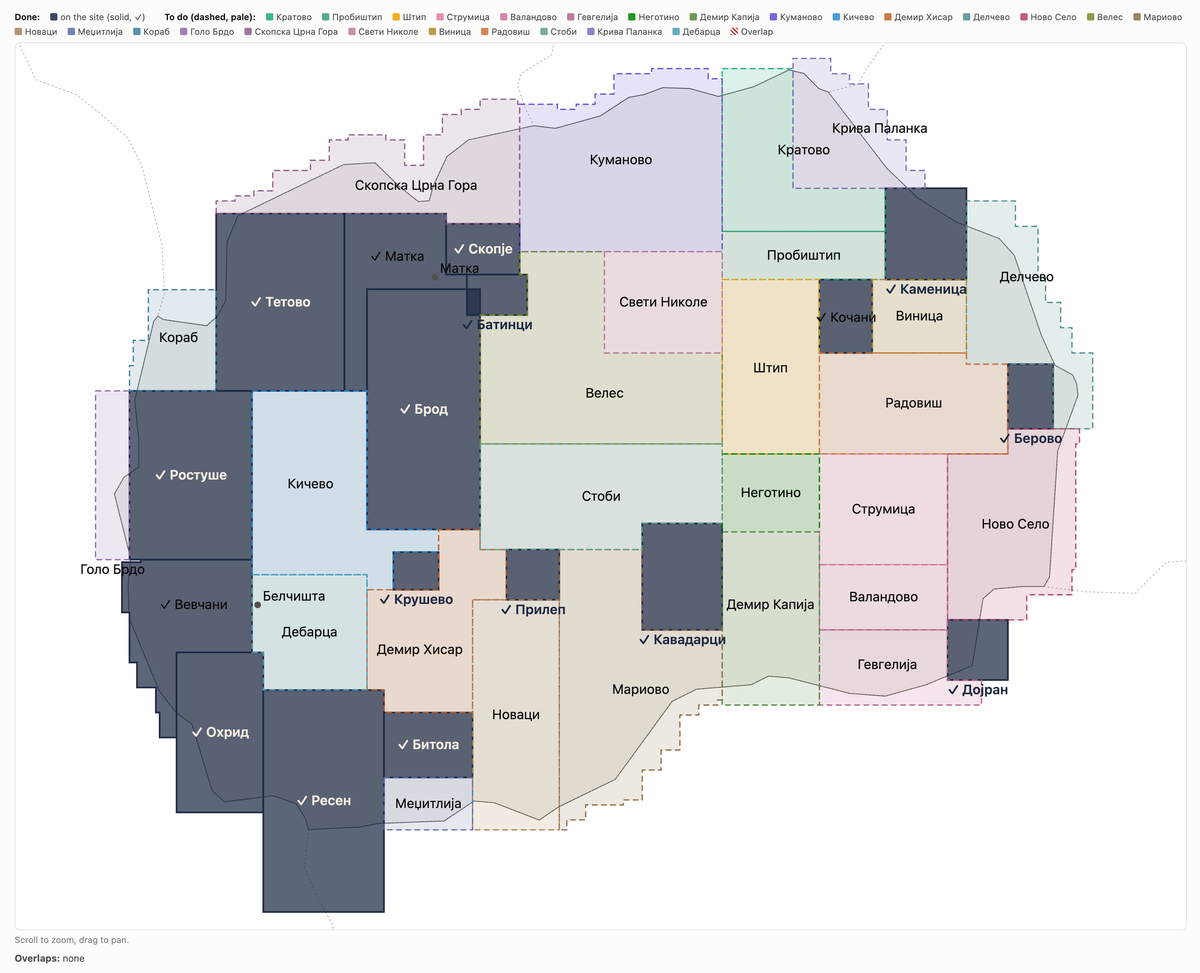
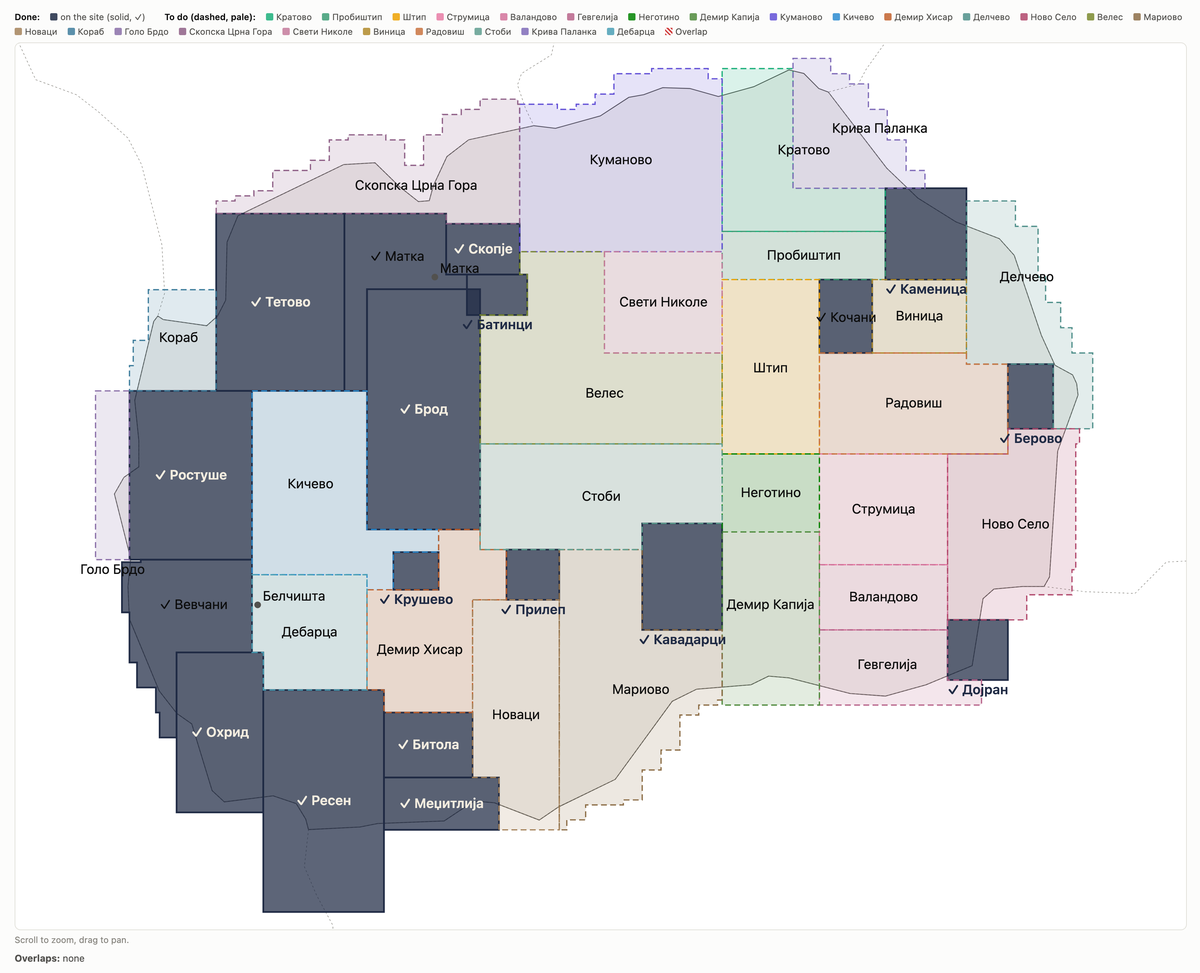
Docs: Меџитлија built (NOTES item 45, TOWNS_TODO 17 and the build order, Новаци's cut corner, CLAUDE.md, README, the plan map)

diff --git a/docs/TOWNS_TODO.md b/docs/TOWNS_TODO.md
@@ -4,7 +4,7 @@
 096 Охрид (with Струга), 098 Прилеп, 048 Крушево, 042 Ростуше (with Дебар and Маврово),
 033 Македонска Каменица (with Саса), 034 Дојран, 02 Батинци, 033 Берово (with Пехчево), 094 Тетово (with Гостивар),
 045 Македонски Брод, 047 Ресен, 02 Матка, 046 Вевчани. **Built, not yet released:** 0903 Кочани (branch `city-kocani`,
-2026-11-24). Details in the first table below.
+2026-11-24), 047 Меџитлија (branch `city-medzitlija`, 2026-11-24). Details in the first table below.
 
 ![Map extents: done (solid, ✓) and to do (dashed)](towns-map.png)
 
@@ -19,7 +19,7 @@ opens through the dev server. With `npm run dev` running:
 "/Applications/Google Chrome.app/Contents/MacOS/Google Chrome" --headless=new --disable-gpu --hide-scrollbars --force-device-scale-factor=2 --window-size=1640,1330 --virtual-time-budget=8000 --screenshot=docs/towns-map.png http://localhost:5173/scripts/towns-map.html
 ```
 
-**To do: 26 new maps** (Кочани built since), all edge to edge, no overlaps, the whole country covered. Largest first (km², official
+**To do: 25 new maps** (Кочани and Меџитлија built since), all edge to edge, no overlaps, the whole country covered. Largest first (km², official
 towns on it):
 
 | Map | ~km² | Towns | | Map | ~km² | Towns |
@@ -35,7 +35,7 @@ towns on it):
 | Радовиш | 900 | Радовиш | | Кораб* | 370 | — |
 | Штип | 820 | Штип | | Виница | 340 | Виница |
 | Демир Капија | 820 | Демир Капија | | Голо Брдо* | 280 | — |
-| Демир Хисар | 810 | Демир Хисар | | Меџитлија* | 230 | — |
+| Демир Хисар | 810 | Демир Хисар | | ~~Меџитлија*~~ built | 300 | — |
 | Делчево | 770 | Делчево | | ~~Кочани~~ built | 190 | Кочани |
 | Кратово | 750 | Кратово | | | | |
 
@@ -49,7 +49,7 @@ in `scripts/config.ts`, `cutOsm()` in `scripts/osm.ts`, used by `prepare.ts` and
 points and buildings with a corner inside are dropped, roads and rivers split at the edge, areas clipped; download
 tiles wholly inside a cut are skipped), so the corner shows bare relief, as outside a map. The cuts so far:
 Дебарца (Охрид's corner), Мариово (Кавадарци's), Вевчани (all of Охрид's
-map: Вевчани is an L around its north-west; built: Охрид's map and the stepped border edge cut), Делчево (Берово's and Радовиш's), Радовиш (Делчево's), Кратово (Крива Паланка's).
+map: Вевчани is an L around its north-west; built: Охрид's map and the stepped border edge cut), Делчево (Берово's and Радовиш's), Радовиш (Делчево's), Кратово (Крива Паланка's), Новаци (Меџитлија's south-east strip, 40.85–40.955 N, 21.40–21.47 E).
 Гевгелија (Дојран's). Велес, Матка (built: Скопје's and Брод's corners cut), Кичево, Демир Хисар, Стоби, Скопска Црна Гора, Крива Паланка, Делчево, Мариово, Вевчани, Кораб,
 Куманово and Ново Село are not rectangles with one corner cut but outlines that go around several maps
 (`shapes` in the plan page); in the app they would be their bounding rectangle with those maps cut out.
@@ -125,7 +125,7 @@ its own.
 | Битола ✓ | **097** | 047 | **097** | as now |
 | Демир Хисар | 097 | 047 | 047 | shares 047 |
 | Новаци | 097 | 047 | 047 | shares 047 |
-| Меџитлија | 097 | 047 | 047 | shares 047 |
+| Меџитлија ✓ | 097 | 047 | 047 | shares 047; built 2026-11-24 |
 | Прилеп ✓ | **098** | 048 | **098** | changed 2026-11-23 (was 048) |
 | Крушево ✓ | 098 | 048 | **048** | changed 2026-11-23 (was 098) |
 | Мариово | 098 | 048 | 048 | shares 048 |
@@ -158,7 +158,7 @@ bigger than its area suggests (dense villages: Тетово is 1100 km² and 16 
 | # | Map | ~km² | Towns | Section |
 |---|---|---|---|---|
 | 1 | ~~Кочани~~ built (2026-11-24, branch `city-kocani`) | 190 | Кочани | 23 |
-| 2 | Меџитлија* | 230 | — | 17 |
+| 2 | ~~Меџитлија*~~ built (2026-11-24, branch `city-medzitlija`) | 300 | — | 17 |
 | 3 | Голо Брдо* | 280 | — | 19 |
 | 4 | Виница | 340 | Виница | 32 |
 | 5 | Неготино | 370 | Неготино | 5 |
@@ -428,7 +428,13 @@ bigger than its area suggests (dense villages: Тетово is 1100 km² and 16 
   the OSM border with Greece.
 - **Landmarks:** Кајмакчалан's chapel at the summit, the Црна in its canyon, Мариово's stone villages.
 
-### 17. Меџитлија (name open)
+### 17. Меџитлија ✓ built (2026-11-24, branch `city-medzitlija`, not yet released; NOTES.md item 45)
+
+- **Built:** 40.85–40.955 N, 21.165–**21.47** E: the plan's e edge (21.40) left the village of Меџитлија (21.429), its
+  crossing (21.417) and Кременица (21.458) outside, so the box was widened east and that corner (40.85–40.955 N,
+  21.40–21.47 E) cut out of Новаци's planned box (`CUTS` in `src/zones.ts`). 4,966 buildings (999 OSM, 3,995 Overture),
+  the Greek half from Overpass. Modelled: the mosque of Меџитлија, both canopies of the border crossing, Велушки
+  манастир. Badge 047, working name kept (the owner may rename it).
 
 - **On it:** the strip of Пелагонија under Битола's map down to the Greek border: Меџитлија and its crossing,
   Кременица, Лажец; across the border the first villages of the Florina plain.
@@ -608,7 +614,8 @@ to Демир Хисар (11), the strip above Прилеп to Стоби (25), 
 - **On it:** the Pelagonian plain south-east of Битола: Новаци, Бач, Добромири, Паралово, the Црна's lower plain
   before the gorge; Нидже's north slopes at the Greek border.
 - **Name / code:** open (working name Новаци, phone code 047).
-- **Extent:** split off Мариово by the owner on 2026-11-23: w 21.40 (Битола's, Меџитлија's and Демир Хисар's e),
+- **Extent:** split off Мариово by the owner on 2026-11-23: w 21.40 (Битола's and Демир Хисар's e; south of 40.955 N
+  21.47, Меџитлија's e: that corner went to Меџитлија when it was built, 2026-11-24, `CUTS`),
   e 21.63 (Прилеп's e, Мариово's w), n 41.31 (Демир Хисар's and Прилеп's s), s ~40.85 (past the Greek border: check
   in OSM). About 970 km², 20 m cells.
 - **Landmarks:** the plain's fields (`farmMask`, as Битола), the Црна, the Нице front's western end.

diff --git a/CLAUDE.md b/CLAUDE.md
@@ -42,7 +42,7 @@ npm run country      # the whole country at 100 m → public/country.png/.json (
 | File | Role |
 |---|---|
 | `main.ts` | App shell: renderer, controls, loading (staged build + progress card), city switching (`loadCity` / `unloadWorld` / `switchCity`), views, time of day, flight/race wiring, popups, help, gamepad, adaptive quality |
-| `cities.ts` | The cities (Skopje, Kavadarci, Bitola, Ohrid, Rostuše, Prilep, Kruševo, Makedonska Kamenica, Dojran, Batinci, Berovo, Tetovo, Makedonski Brod, Resen, Матка, Вевчани, Кочани) and what differs per city: data files, camera views, district and landmark labels, race route, walking info spots, paragliders, weather / refill labels; `?city=` in the address |
+| `cities.ts` | The cities (Skopje, Kavadarci, Bitola, Ohrid, Rostuše, Prilep, Kruševo, Makedonska Kamenica, Dojran, Batinci, Berovo, Tetovo, Makedonski Brod, Resen, Матка, Вевчани, Кочани, Меџитлија) and what differs per city: data files, camera views, district and landmark labels, race route, walking info spots, paragliders, weather / refill labels; `?city=` in the address |
 | `city.ts` | `computeCitySteps` (generator; OSM+terrain → typed arrays per 1 km chunk) and `assembleCity` (meshes, materials, 3-level LOD, far-ground texture bake). Facade shader (windows, shutters, awnings, cornices, night glow), roof tiles, parapets, trees, parked cars, sheds; Kavadarci's vineyards and Bitola's fields, Кочани's rice paddies (`rice`) (`farmMask`, `VINE_GROUND`: farmland marked by one terrain colour, plots painted by the ground shader; `vineShare` per city: the share of plots that are vineyards) |
 | `terrain.ts` | Heightfield with exact mesh-matching interpolation; chunk/low-res meshes; triangle clipping for draping |
 | `post.ts` | `InkRenderer`: colour + normal/depth passes (one pass in the low tier or with smooth edges off: normals as a second attachment) → composite (ink lines, pairwise AO, cloud shadows, grade, haze) → temporal accumulation of jittered frames (supersampled AA) → output |
@@ -75,6 +75,7 @@ npm run country      # the whole country at 100 m → public/country.png/.json (
 | `matka.ts` | Матка (after photos): Св. Андреја, Св. Никола Шишевски (`byzChurch`), the Матка arch dam (`archDam`) |
 | `vevcani.ts` | Вевчани (after photos): Св. Никола (basilica, bell tower, annex), wooden footbridges below the springs |
 | `kocani.ts` | Кочани (after photos): the two Ottoman towers (Средновековна кула with its balcony and stair, the ruined Саат-кула with the clock's brick drum), Споменик на слободата (curved wall, drawn mosaics on a `CanvasTexture`, pylons) |
+| `medzitlija.ts` | Меџитлија (after photos and the aerial image): the village mosque (copper domes, porch, minaret), the border crossing's two canopies (Macedonian and Greek side, `modelRects`), Велушки манастир (church Св. Ѓорѓи with its bell tower, the konak with the gate and the court gallery) |
 | `dojran.ts` | Dojran (after photos): the clock tower, Св. Илија (a basilica), a мандра (reed fishing enclosure, hut on stilts, walkway to the beach) |
 | `bitola.ts` | Bitola (after photos): Саат-кула, Ајдар-кади џамија, Безистен, Св. Димитриј and its bell tower, Хераклеа's theatre and Great Basilica with its mosaic floors (painted canvases), built on their OSM outlines (`models` in `PREP`, `landmarks.models` in the data; the generic buildings left out); walking collision |
 | `river.ts` | Kavadarci, the Луда Мара (after photos): the stone-lined channel through the town between two promenades, cut exactly out of the terrain and draped ground (`cut`), its water, banks and promenades emitted into the draped ground; copings, railing, arched footbridges, road-bridge parapets, cascades, steps, benches, lamps, promenade trees; walking height and collision |
@@ -84,7 +85,7 @@ npm run country      # the whole country at 100 m → public/country.png/.json (
 | `i18n-towns.ts` | UI texts of the towns added after Bitola, spread into `STR` |
 | `i18n-towns2.ts` | UI texts of Tetovo, Makedonski Brod and Resen, spread into `STR` after `TOWNS` |
 | `i18n-towns3.ts` | UI texts of Матка and Вевчани, spread into `STR` after `TOWNS2` |
-| `i18n-towns4.ts` | UI texts of Кочани, spread into `STR` after `TOWNS3` |
+| `i18n-towns4.ts` | UI texts of Кочани and Меџитлија, spread into `STR` after `TOWNS3` |
 | `i18n-country.ts` | UI texts of the country view, spread into `STR` after `TOWNS4` |
 | `country.ts` | Country view (Macedonia, first in the city menu): all of Macedonia at 100 m from `public/country.png` (heights, land cover, border), its own scene / camera / controls drawn through the same ink renderer (`renderCountry()` in `main.ts`), zones as a canvas overlay, hover, picking by marching the height grid, badges that open a city; the data is loaded once and kept for the visit (`loadCountry`, meant for the F-15 too) |
 | `countryground.ts` | The country's 100 m terrain around a city map while the F-15 flies: one CPU-built grid following the plane (fine near, ~0.7 km cells at 45 km), sunk below the map inside it, the map's own exaggeration; the flight and the rockets use its height beyond the map's edges. While it shows, the ink's normal pass is not clipped to the map (`ink.setClipping`) |
@@ -123,7 +124,9 @@ controls, ink, city, flight); `setView('center'|'kale'|'park'|'vodno'|'overview'
   047 Ресен (`?city=resen`, v14.0.0: the whole of Преспа, its level set by hand), 02 Матка (`?city=matka`, v16.0.0: the
   first map that is not a rectangle, Скопје's and Брод's maps cut out of it), 046 Вевчани (`?city=vevcani`, v16.0.0: Охрид's map
   cut out of it), 0903 Кочани (`?city=kocani`, branch `city-kocani`, not yet released: Кочанско Поле's rice paddies, `rice` in
-  `CITIES` → `RICE_GROUND` in `city.ts`, compiled only into a city with rice).
+  `CITIES` → `RICE_GROUND` in `city.ts`, compiled only into a city with rice), 047 Меџитлија (`?city=medzitlija`, branch
+  `city-medzitlija`, not yet released: southern Пелагонија to the Greek border, widened east to 21.47 so that Меџитлија is on it;
+  Новаци's planned box cut there).
 - The F-15 (v26.0.0) flies from map to map: the next map downloaded ahead, switched at the edge while the jet flies on
   over the country's terrain (`src/hop.ts`, `src/countryground.ts`, `transit` in `main.ts`); every new finished map
   in `src/zones.ts` widens the flight. All of it: "F-15 and flying from map to map" in docs/NOTES.md.

diff --git a/README.md b/README.md
@@ -8,7 +8,7 @@ An illustrated, living 3D map of Skopje — from Gjorče Petrov to Gazi Baba and
 
 Илустрирана, жива 3Д мапа на Скопје, нацртана од отворените податоци на OpenStreetMap.
 
-More towns — **043 Кавадарци** (Kavadarci, the centre of the Tikveš wine region), **097 Битола** (Bitola, the city of consuls under Pelister) **096 Охрид** (Ohrid and Struga with the whole of Lake Ohrid) **098 Прилеп** (Prilep under Markovi Kuli) **048 Крушево** (Kruševo, the town of the Ilinden Uprising) **033 Македонска Каменица** (Makedonska Kamenica, the miners' town under Osogovo) **034 Дојран** (Dojran and the whole of Lake Dojran) **02 Батинци** (Batinci and its surroundings south of Skopje, to Marko's Monastery) **033 Берово** (Berovo, Pehčevo and the whole of Berovo Lake) **094 Тетово** (Tetovo, Gostivar and the Šar Mountains) **045 Македонски Брод** (Makedonski Brod, Lake Kozjak and the Treska) **047 Ресен** (Resen and the whole of Lake Prespa) **02 Матка** (the Matka Canyon and the land west of Skopje) **046 Вевчани** (Vevčani and Drimkol under Jablanica) and **0903 Кочани** (Kočani and the rice fields of its plain) — are chosen from the badge at the top left or opened directly with `?city=`: https://bbojan.github.io/091-skopje/?city=kavadarci, https://bbojan.github.io/091-skopje/?city=bitola, https://bbojan.github.io/091-skopje/?city=ohrid, https://bbojan.github.io/091-skopje/?city=rostuse, https://bbojan.github.io/091-skopje/?city=prilep, https://bbojan.github.io/091-skopje/?city=krusevo, https://bbojan.github.io/091-skopje/?city=kamenica, https://bbojan.github.io/091-skopje/?city=dojran, https://bbojan.github.io/091-skopje/?city=batinci, https://bbojan.github.io/091-skopje/?city=berovo, https://bbojan.github.io/091-skopje/?city=tetovo, https://bbojan.github.io/091-skopje/?city=brod, https://bbojan.github.io/091-skopje/?city=resen, https://bbojan.github.io/091-skopje/?city=matka, https://bbojan.github.io/091-skopje/?city=vevcani, https://bbojan.github.io/091-skopje/?city=kocani
+More towns — **043 Кавадарци** (Kavadarci, the centre of the Tikveš wine region), **097 Битола** (Bitola, the city of consuls under Pelister) **096 Охрид** (Ohrid and Struga with the whole of Lake Ohrid) **098 Прилеп** (Prilep under Markovi Kuli) **048 Крушево** (Kruševo, the town of the Ilinden Uprising) **033 Македонска Каменица** (Makedonska Kamenica, the miners' town under Osogovo) **034 Дојран** (Dojran and the whole of Lake Dojran) **02 Батинци** (Batinci and its surroundings south of Skopje, to Marko's Monastery) **033 Берово** (Berovo, Pehčevo and the whole of Berovo Lake) **094 Тетово** (Tetovo, Gostivar and the Šar Mountains) **045 Македонски Брод** (Makedonski Brod, Lake Kozjak and the Treska) **047 Ресен** (Resen and the whole of Lake Prespa) **02 Матка** (the Matka Canyon and the land west of Skopje) **046 Вевчани** (Vevčani and Drimkol under Jablanica) **0903 Кочани** (Kočani and the rice fields of its plain) and **047 Меџитлија** (southern Pelagonia at the Greek border) — are chosen from the badge at the top left or opened directly with `?city=`: https://bbojan.github.io/091-skopje/?city=kavadarci, https://bbojan.github.io/091-skopje/?city=bitola, https://bbojan.github.io/091-skopje/?city=ohrid, https://bbojan.github.io/091-skopje/?city=rostuse, https://bbojan.github.io/091-skopje/?city=prilep, https://bbojan.github.io/091-skopje/?city=krusevo, https://bbojan.github.io/091-skopje/?city=kamenica, https://bbojan.github.io/091-skopje/?city=dojran, https://bbojan.github.io/091-skopje/?city=batinci, https://bbojan.github.io/091-skopje/?city=berovo, https://bbojan.github.io/091-skopje/?city=tetovo, https://bbojan.github.io/091-skopje/?city=brod, https://bbojan.github.io/091-skopje/?city=resen, https://bbojan.github.io/091-skopje/?city=matka, https://bbojan.github.io/091-skopje/?city=vevcani, https://bbojan.github.io/091-skopje/?city=kocani, https://bbojan.github.io/091-skopje/?city=medzitlija
 
 ## Features
 
@@ -100,6 +100,11 @@ More towns — **043 Кавадарци** (Kavadarci, the centre of the Tikveš 
 - Hand-built after photos: the two Ottoman towers (the medieval tower and the clock tower), the Monument to Freedom on Lokubija with its mosaics
 - Its own places, labels, race route (12 rings), walking info cards; firefighting refills from the Bregalnica; no ЈСП buses
 
+**Medžitlija** (`?city=medzitlija`)
+- Southern Pelagonia under Bitola's map down to the Greek border: Medžitlija and the border crossing, Kremenica and its railway station, the villages under Baba and the first villages of the Florina plain, on real terrain
+- Hand-built after photos and the aerial image: the mosque of Medžitlija, the canopies of the border crossing (both sides), the Velušina monastery (church, bell tower, konak)
+- Its own places, labels, race route (13 rings), walking info cards; firefighting refills from the fish ponds by Žabeni; no ЈСП buses
+
 **Time, weather and seasons**
 - Day, sunset and night (lit windows, street lamps, headlights), drifting clouds, birds, paragliders over Vodno, flowing river
 - Weather: clear, rain (wet streets, puddles, umbrellas), snow, or snow only on Vodno
@@ -166,6 +171,7 @@ npm run download -- resen && npm run overture -- resen && npm run terrain -- res
 npm run download -- matka && npm run overture -- matka && npm run terrain -- matka && npm run data -- matka
 npm run download -- vevcani && npm run overture -- vevcani && npm run terrain -- vevcani && npm run data -- vevcani
 npm run download -- kocani && npm run terrain -- kocani && npm run data -- kocani   # Overture adds nothing here
+npm run download -- medzitlija && npm run overture -- medzitlija && npm run terrain -- medzitlija && npm run data -- medzitlija
                    # when Overpass is down: scripts/pbf2overpass.py writes data/<city>_raw.json from Geofabrik extracts
 ```
 

diff --git a/docs/NOTES.md b/docs/NOTES.md
@@ -664,6 +664,39 @@ day/night) and fun (airplane, ring race). Tagline: „Го добивме 091 С
    checked: flying in from a neighbouring map (none of its neighbours is built yet), phones, firefighting and the race,
    night and snow views, the other walking cards one by one. Seen: on 20 m cells `farmMask` also paints a few open lots
    in the town (one next to the Саат-кула), as on the other 20 m maps.
+45. **047 Меџитлија** (Nov 2026, branch `city-medzitlija`, not yet released; second of the build order): southern Пелагонија
+   under Битола's map down past the Greek border (docs/TOWNS_TODO.md, 17): box 40.85–40.955 N, 21.165–21.47 E (11.7 ×
+   25.7 km, 20 m cells, 532–2347 m; Баба's southern ridges in the west), a plain rectangle edge to edge with Битола (n),
+   Ресен (w) and the planned Новаци (e). **The plan's e edge (21.40) left Меџитлија itself (21.429), its border crossing
+   (21.417) and Кременица (21.458) outside**: the box was widened to 21.47, the strip 40.85–40.955 N, 21.40–21.47 E cut out
+   of Новаци's planned box (`CUTS` in `src/zones.ts`). Raw OSM from Overpass this time (overpass-api.de answered after a
+   few 502s; 18 tiles): 999 buildings and 1,003 roads, exactly the count query; the Greek half comes with it (Geofabrik's
+   Macedonia extract has none of it). Overture adds 3,995 outlines (Меџитлија's village is nearly empty in OSM), so the
+   Overture credit is on. Scene: 4,966 buildings, 1.3 MB, no height zones (`maxLevels: 4`). Farmland painted like Битола's
+   (`vineyards: 300`, `vineShare: 0.08`). Refilling over the fish ponds by Жабени at the north edge (three OSM ponds of
+   33–55 ha). Models (`src/medzitlija.ts`, after Commons photos of 2014–2023 and Esri's aerial image; references only):
+   **the mosque of Меџитлија** (`modelRects.mzdzamija`, OSM lacks it: hall with three arched windows a side, copper dome
+   on a low drum, porch of three arches with a small dome, the white minaret with its balcony and silver cone; rectangle and
+   turn read off the aerial image, dome toward the qibla), **the border crossing's canopies** (`mzgranica`: the Macedonian
+   side, 84 × 54 m, ribbed grey roof over the lanes, booths, the offices along its east edge; `mzgrcka`: the Greek side 450 m
+   south, three dark blue bays; from the aerial image only, heights and columns guessed), **Велушки манастир** on OSM's
+   outlines (1839, rebuilt after the First World War, mk Wikipedia: the church Св. Ѓорѓи, white on a stone plinth under a
+   hipped tile roof, round-arched windows, an apse; its bell tower north-west of it, not in OSM, placed by a shadow on the
+   aerial image; the konak south of it with the gate passage and the white piers and wooden gallery on the court side).
+   Labels only: Св. Атанасиј and the railway station in Кременица, Барешански манастир, Остречка џамија, Св. Илија
+   (Драгош), Коле Канински's monument in Породин, Вирој. Greek villages are labelled by their Macedonian names from OSM's
+   `name:mk` (Негочани, Клабучишта, Света Петка, Опсирино, Раково, Битуша, Горно / Долно Каленик), as Дојран's Дојрани.
+   Badge 047 (the Badge codes table) and the owner's LinkedIn; tow banners „Пелагонија е спасена!“ / „Поздрав од
+   Пелагонија!“; snow label „Снег на Баба“ (Ресен's). In the city menu right after Кочани. Checked: typecheck, build (the
+   files in `dist/`), the map loads with no console errors, the views (the village, the mosque, both canopies, the
+   monastery, the plain, the overview), switching away and back (textures 318 → 318, scene objects 21 → 21, geometries
+   +2), the F-15 over the map (country vs map heights: mean 0, max 11 m), **flying the F-15 from Битола into Меџитлија
+   and back** (switched at the edge both ways; after arriving the heights agree, mean 0, ±12 m; at the Greek edge it
+   turns back), Skopje pixel check (0 on six views, 13–14 pixels on the three overviews: the gondola cabins). The pane was
+   hidden, so the pixel check ran with a frame pump: `requestAnimationFrame` queued and `performance.now` faked, the
+   script's `frames()` and the 1.7 s waits replaced by pumped frames, `img.decode()` by `onload` (with timer frames at 1–2
+   FPS the same code compared against itself differed on every pixel; pumped, it matches). Not checked: flying in from
+   Ресен, phones, firefighting and the race, night and snow views, the walking cards one by one.
 
 ## Country view (Nov 2026)
 
@@ -935,6 +968,7 @@ All saved settings are `localStorage` keys starting with `skopje.`, read once at
 | Best race time in Матка | `skopje.bestRace.matka` | none |
 | Best race time in Вевчани | `skopje.bestRace.vevcani` | none |
 | Best race time in Кочани | `skopje.bestRace.kocani` | none |
+| Best race time in Меџитлија | `skopje.bestRace.medzitlija` | none |
 
 The camera is not in storage: it is in the address bar (`#@lat,lon,distance,tilt°,heading°` or
 a view name), so a reload or a shared link restores it; without a hash the map opens on Плоштад.
